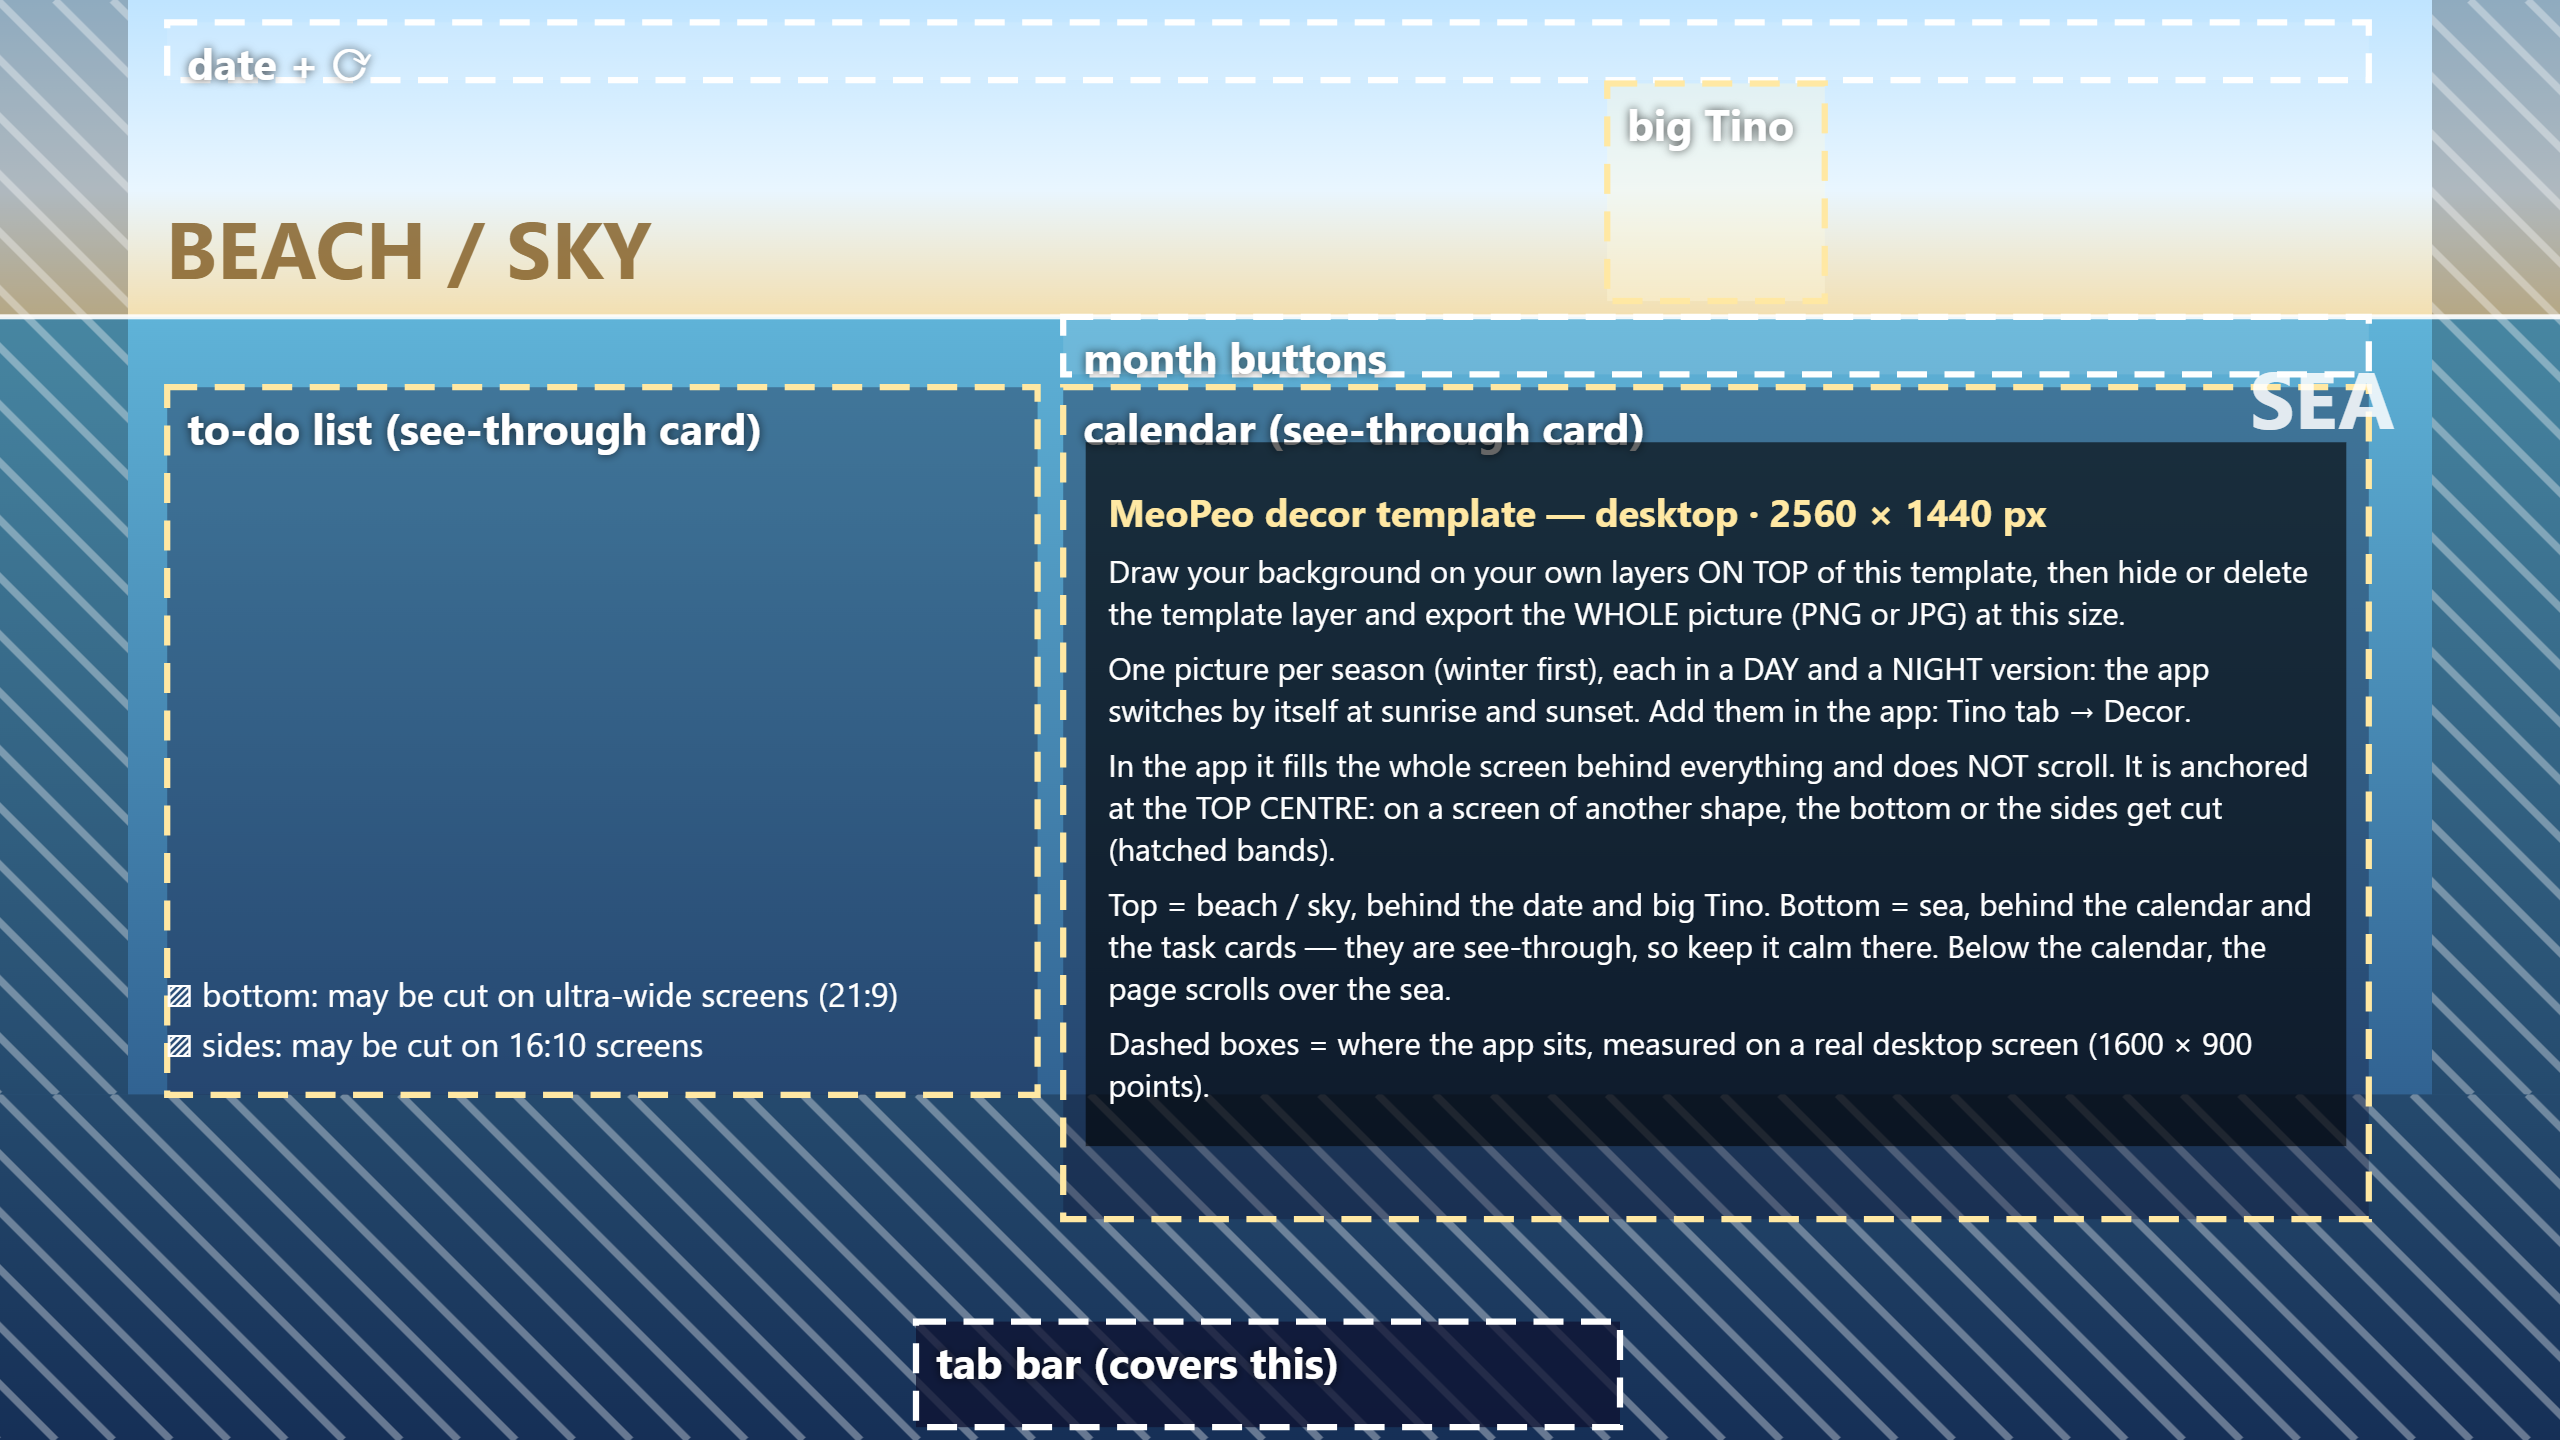
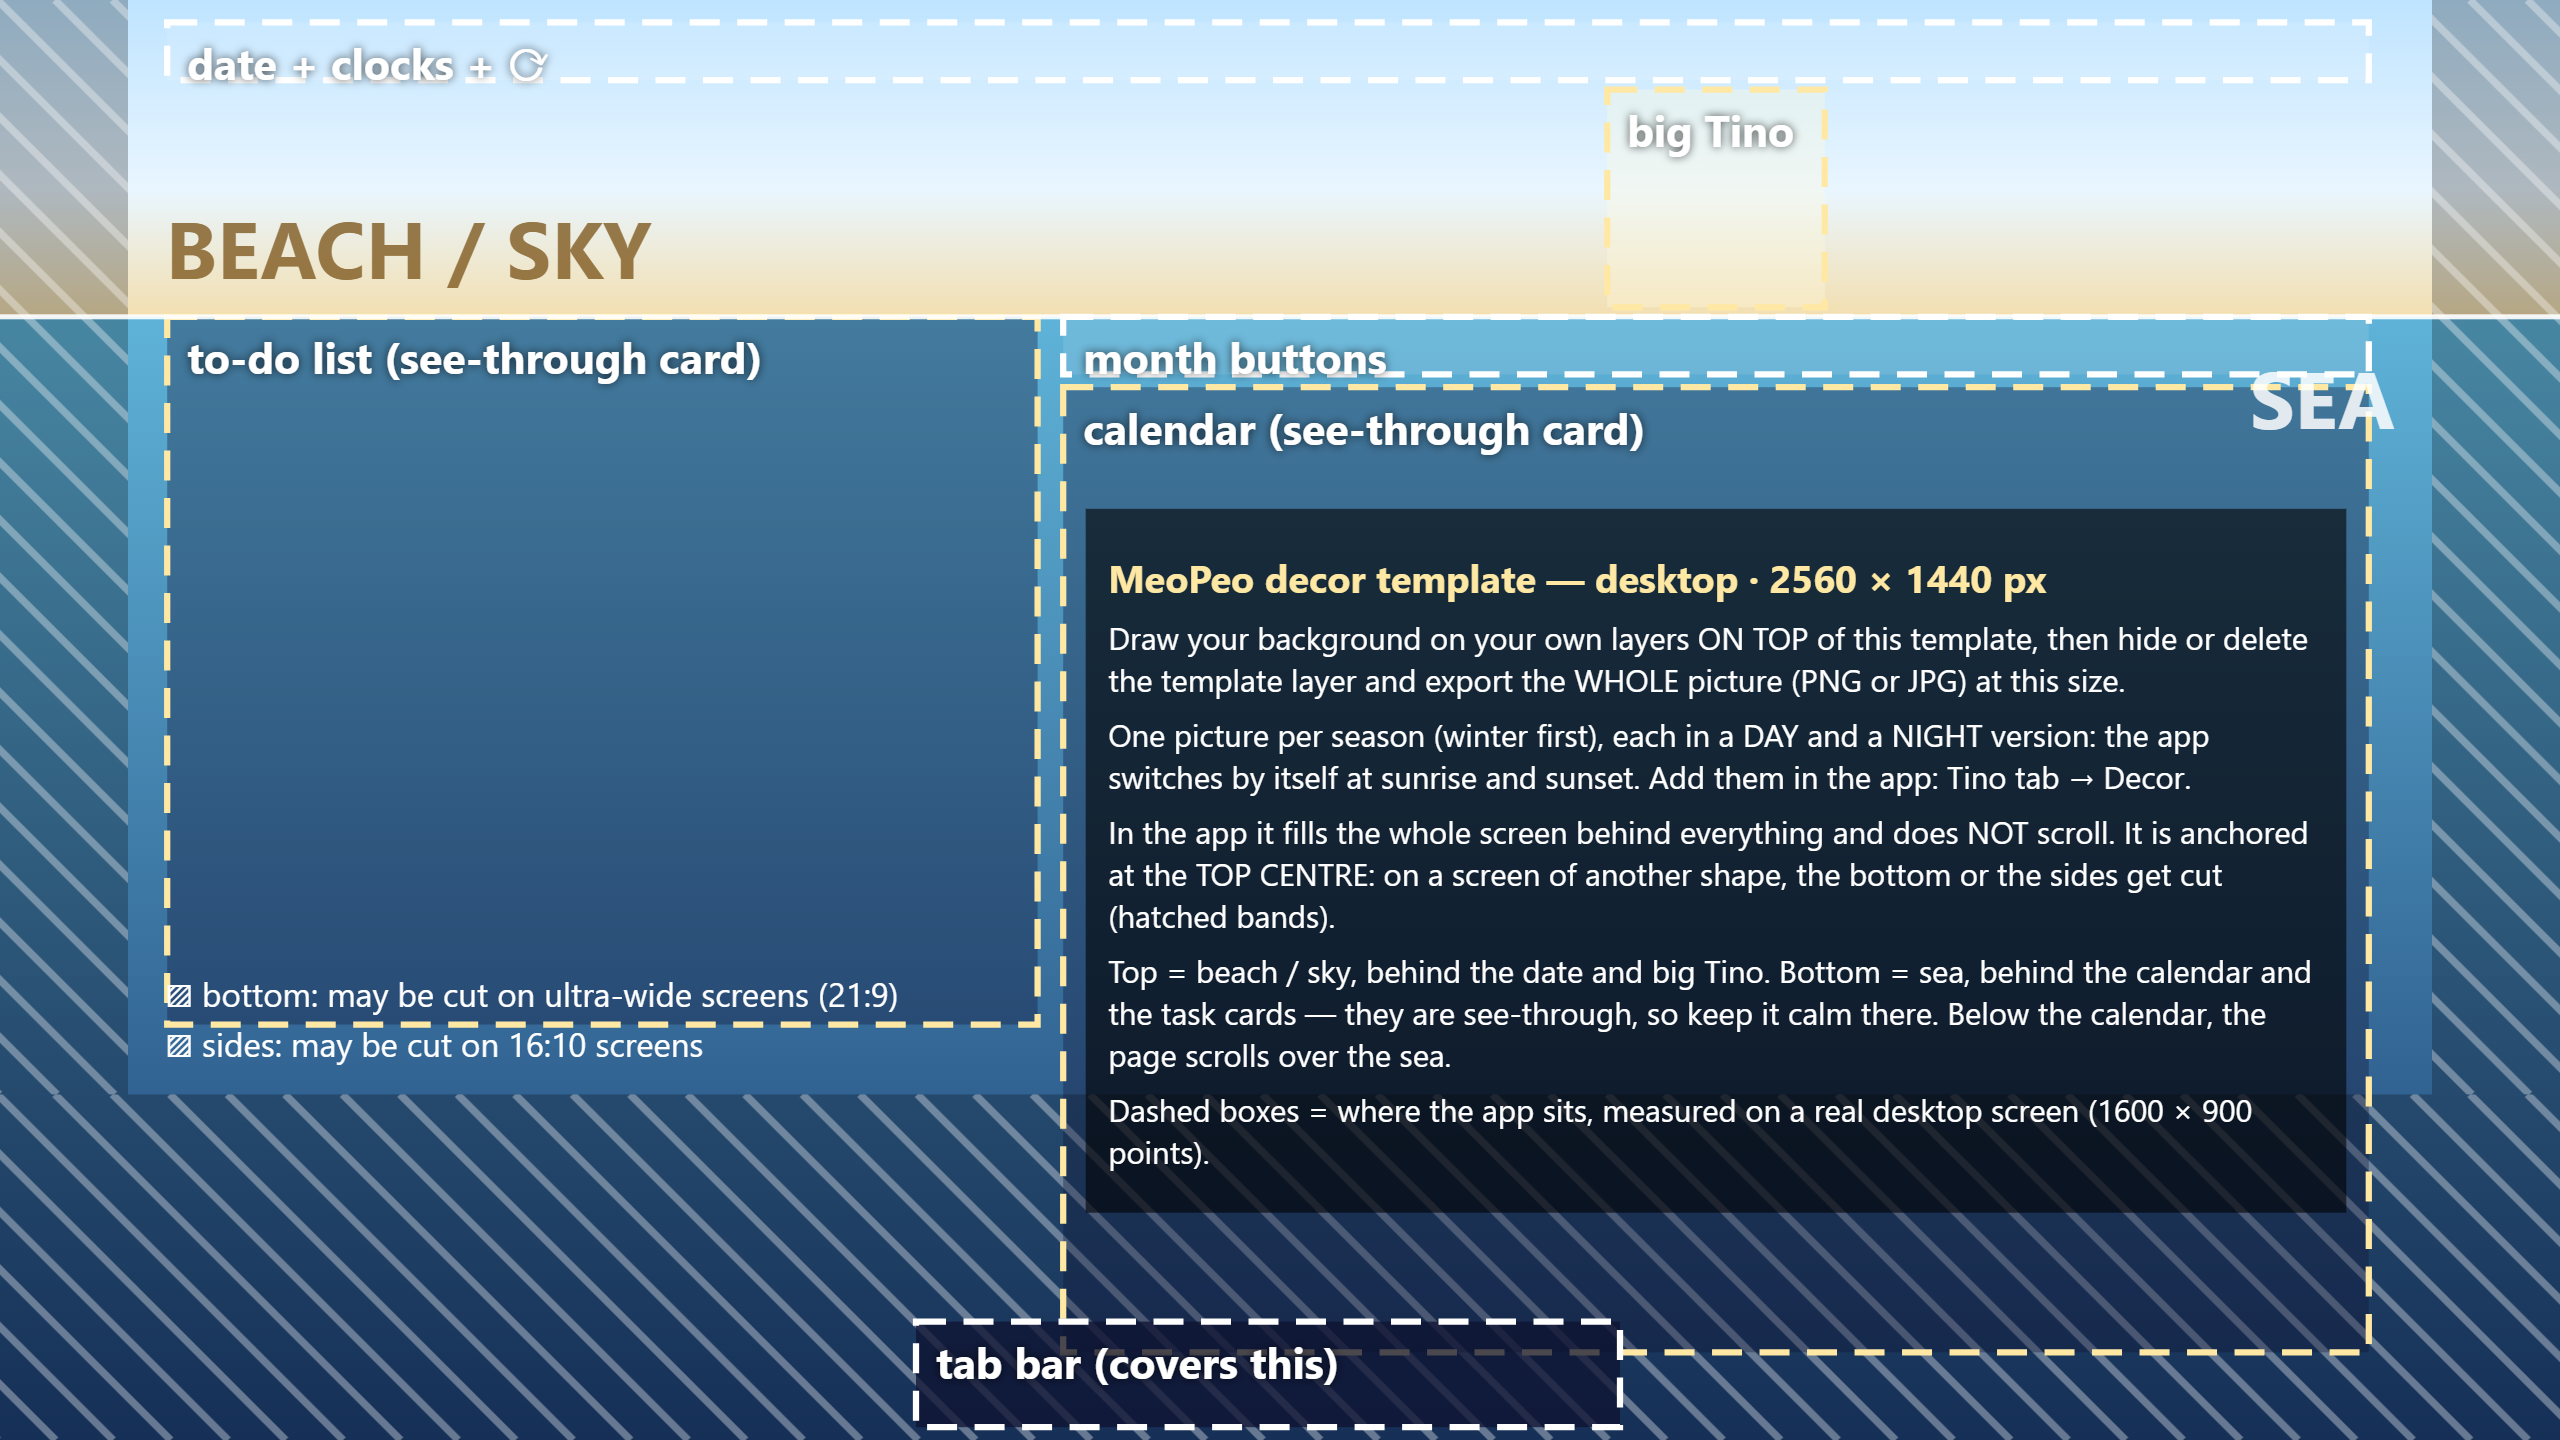
Version 2026-10-08.2 : heures de deux fuseaux à côté de la date
- En-tête du calendrier : « 🇨🇭 09:13 · 🇻🇳 14:13 », mis à jour chaque
  minute, avec le jour quand ce n'est pas le même (sous la date sur
  téléphone)
- Modèles de décor refaits pour le nouvel en-tête

diff --git a/app.js b/app.js
@@ -107,7 +107,8 @@ export async function start(backend) {
   // Retour sur l'app : sur téléphone, la connexion temps réel a pu être coupée → on relit tout et on se réabonne
   const wake = () => { if (!S.user || document.hidden) return; tick(); reload(); loadTino(); loadExtras(); loadOutfits(); loadGrumbles(); loadNotes(); loadSeries(); loadDecor(); resubscribe(); };
   document.addEventListener("visibilitychange", wake);
-  document.addEventListener("visibilitychange", () => { if (!document.hidden) applyTheme(); }); // (minuteries endormies en arrière-plan)
+  document.addEventListener("visibilitychange", () => { if (!document.hidden) { applyTheme(); runClocks(); } }); // (minuteries endormies en arrière-plan)
+  runClocks();
   window.addEventListener("focus", wake);
   window.addEventListener("online", wake);
   window.addEventListener("resize", () => align());
@@ -280,11 +281,31 @@ function bindMsg() {
 }
 
 // ---------- Page principale ----------
+// Heures à côté de la date, les mêmes sur tous les appareils : [repère, nom, fuseau IANA] ; jour de la semaine ajouté
+// quand ce n'est pas le même jour qu'ici
+const CLOCKS = [["🇨🇭", "Switzerland", "Europe/Zurich"], ["🇻🇳", "Vietnam", "Asia/Ho_Chi_Minh"]];
+function clocksHtml(d = new Date()) {
+  return CLOCKS.map(([mark, name, timeZone]) => {
+    try {
+      const day = new Intl.DateTimeFormat("en-CA", { timeZone, year: "numeric", month: "2-digit", day: "2-digit" }).format(d);
+      const time = new Intl.DateTimeFormat("en-GB", { timeZone, hour: "2-digit", minute: "2-digit", hourCycle: "h23" }).format(d);
+      const wd = day === iso(d) ? "" : new Intl.DateTimeFormat("en-GB", { timeZone, weekday: "short" }).format(d) + " ";
+      return `<span title="${name}">${mark} ${wd}${time}</span>`;
+    } catch { return ""; } // (fuseau inconnu du navigateur)
+  }).filter(Boolean).join(" · ");
+}
+let clockTimer = 0;
+function runClocks() { // à chaque nouvelle minute (et au retour sur l'app : minuteries endormies en arrière-plan)
+  clearTimeout(clockTimer);
+  const html = clocksHtml();
+  document.querySelectorAll(".mp-clocks").forEach((el) => { if (el.innerHTML !== html) el.innerHTML = html; });
+  clockTimer = setTimeout(runClocks, 60000 - (Date.now() % 60000) + 50);
+}
 function render() {
   if (root.offsetHeight) root.style.minHeight = root.offsetHeight + "px"; // pas de saut de page pendant le réaffichage
   const P = S.partner;
   const off = S.offline ? new Date(S.offline) : null;
-  root.innerHTML = `${off ? `<div class="mp-offline">📴 Offline — showing your tasks as of ${off.getDate()}.${pad(off.getMonth() + 1)} at ${pad(off.getHours())}:${pad(off.getMinutes())}. Changes can't be saved until you're back online.</div>` : ""}<header class="pl-hello"><span class="mp-date">${dayTitle(now)}, ${now.getFullYear()}</span>
+  root.innerHTML = `${off ? `<div class="mp-offline">📴 Offline — showing your tasks as of ${off.getDate()}.${pad(off.getMonth() + 1)} at ${pad(off.getHours())}:${pad(off.getMinutes())}. Changes can't be saved until you're back online.</div>` : ""}<header class="pl-hello"><span class="mp-date">${dayTitle(now)}, ${now.getFullYear()} <span class="mp-clocks">${clocksHtml()}</span></span>
       <span class="mp-who">${esc(S.me.mark)} ${esc(S.me.label)}</span>
       <button class="pl-refresh" data-act="refresh" title="Reload">⟳</button></header>
     <div class="pl-split"><div class="pl-left"></div><div class="pl-right"></div></div>

diff --git a/style.css b/style.css
@@ -68,7 +68,8 @@ input[type=radio], input[type=checkbox] { accent-color: #ffe8a3; width: 18px; he
   display: flex; align-items: center; flex-wrap: wrap; gap: 8px; margin: 4px 0 12px;
   font-size: 1.5em; font-weight: 600; color: #f4f1ff; text-shadow: 0 0 18px rgba(255, 232, 163, 0.35), 0 2px 8px rgba(0, 0, 0, 0.6);
 }
-.mp-date { margin-right: auto; }
+.mp-date { flex: 1 1 0; } /* (prend la place libre : les heures passent sous la date si elles n'ont pas la place à côté) */
+.mp-clocks { display: inline-block; white-space: nowrap; font-size: 0.6em; font-weight: 600; color: rgba(244, 241, 255, 0.9); vertical-align: 0.15em; }
 .mp-who { font-size: 0.55em; font-weight: 600; color: #ffe8a3; }
 .pl-refresh { font-size: 0.55em; font-weight: 600; border-radius: 999px; text-shadow: none; min-width: 40px; }
 

diff --git a/sw.js b/sw.js
@@ -1,7 +1,7 @@
 // Service worker de MeoPeo : l'app s'ouvre même sans réseau (ses fichiers sont gardés sur le téléphone).
 // ⚠ À CHAQUE publication d'une nouvelle version : changer VERSION, sinon les téléphones gardent l'ancienne.
 // Les données (Supabase : tâches, connexion, temps réel) ne passent JAMAIS par ce cache.
-const VERSION = "2026-10-08.1";
+const VERSION = "2026-10-08.2";
 const CACHE = "meopeo-" + VERSION;
 const SHELL = [
   "./", "index.html", "app.js", "mascot.js", "bigtino.js", "data.js", "config.js", "style.css", "manifest.webmanifest",
